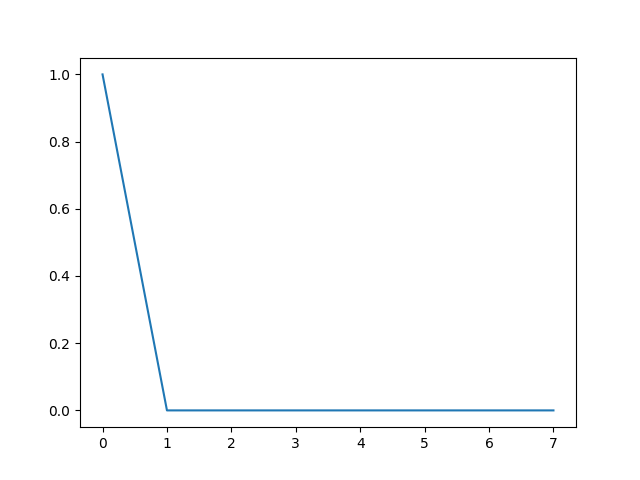
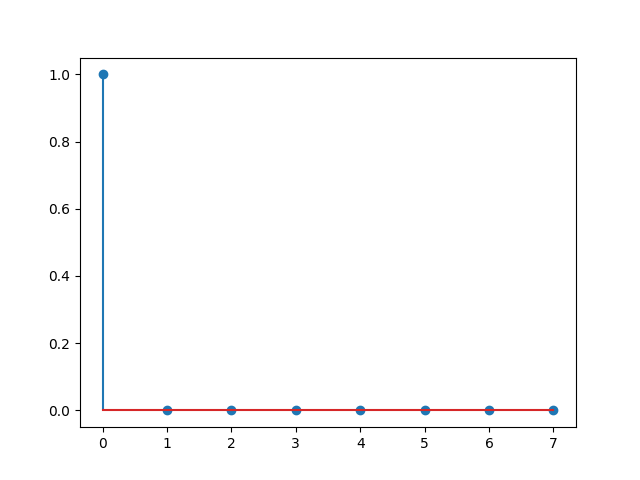
2章を変更

Changed region(s): [[0.1562, 0.7812, 0.875, 0.875], [0.1562, 0.125, 0.2188, 0.5625], [0.2188, 0.5625, 0.25, 0.7812]]

diff --git a/yyamamoto/chapter02/q03.py b/yyamamoto/chapter02/q03.py
@@ -1,30 +1,30 @@
-import math
-import cmath
-import matplotlib.pyplot as plt
 import numpy as np
+import matplotlib.pyplot as plt
 
 def dft(x):
     N = len(x)
-    X = [0] * N
+    X = np.zeros(N, dtype=complex)
+    n = np.arange(N)
     for k in range(N):
-        for n in range(N):
-            X[k] += x[n] * cmath.exp(-1j*2*math.pi*k*n/N)
+        X[k] = np.sum(x[n] * np.exp(-1j*2*np.pi*k*n/N))
     return X
 
 def idft(X):
     N = len(X)
-    x = [0] * N
+    x = np.zeros(N, dtype=complex)
+    k = np.arange(N)
     for n in range(N):
-        for k in range(N):
-            x[n] += X[k] * cmath.exp(1j*2*math.pi*k*n/N) / N
+       x[n] = np.sum(X[k] * np.exp(1j*2*np.pi*k*n/N)) / N
     return x
 
-impulse = [1, 0, 0, 0, 0, 0, 0, 0]
+
+# ここからq02
+impulse = np.array([1, 0, 0, 0, 0, 0, 0, 0])
 dft_value = dft(impulse)
 
 # ここからq03
 idft_value = idft(dft_value)
 t = np.arange(0, 8, 1)
 fig = plt.figure()
-plt.plot(idft_value)
+plt.stem(idft_value)
 fig.savefig('q03_graph')

diff --git a/yyamamoto/chapter02/q04.py b/yyamamoto/chapter02/q04.py
@@ -1,27 +1,24 @@
-import math
-import cmath
-import numpy as np
 import matplotlib.pyplot as plt
+import numpy as np
 
 def dft(x):
     N = len(x)
-    X = [0] * N
+    X = np.zeros(N, dtype=complex)
+    n = np.arange(N)
     for k in range(N):
-        for n in range(N):
-            X[k] += x[n] * cmath.exp(-1j*2*math.pi*k*n/N)
+        X[k] = np.sum(x[n] * np.exp(-1j*2*np.pi*k*n/N))
     return X
 
 def idft(X):
     N = len(X)
-    x = [0] * N
+    x = np.zeros(N, dtype=complex)
+    k = np.arange(N)
     for n in range(N):
-        for k in range(N):
-            x[n] += X[k] * cmath.exp(1j*2*math.pi*k*n/N) / N
+       x[n] = np.sum(X[k] * np.exp(1j*2*np.pi*k*n/N)) / N
     return x
 
 
-# ここからq02
-impulse = [1, 0, 0, 0, 0, 0, 0, 0]
+impulse = np.array([1, 0, 0, 0, 0, 0, 0, 0])
 dft_value = dft(impulse)
 
 A = 20 * np.log10(np.abs(dft_value))

diff --git a/yyamamoto/chapter02/q02.py b/yyamamoto/chapter02/q02.py
@@ -1,23 +1,22 @@
-import math
-import cmath
+import numpy as np
 
 def dft(x):
     N = len(x)
-    X = [0] * N
+    X = np.zeros(N, dtype=complex)
+    n = np.arange(N)
     for k in range(N):
-        for n in range(N):
-            X[k] += x[n] * cmath.exp(-1j*2*math.pi*k*n/N)
+        X[k] = np.sum(x[n] * np.exp(-1j*2*np.pi*k*n/N))
     return X
 
 def idft(X):
     N = len(X)
-    x = [0] * N
+    x = np.zeros(N, dtype=complex)
+    k = np.arange(N)
     for n in range(N):
-        for k in range(N):
-            x[n] += X[k] * cmath.exp(1j*2*math.pi*k*n/N) / N
+       x[n] = np.sum(X[k] * np.exp(1j*2*np.pi*k*n/N)) / N
     return x
 
 
 # ここからq02
-impulse = [1, 0, 0, 0, 0, 0, 0, 0]
+impulse = np.array([1, 0, 0, 0, 0, 0, 0, 0])
 print(dft(impulse))

diff --git a/yyamamoto/chapter02/q05.py b/yyamamoto/chapter02/q05.py
@@ -1,25 +1,23 @@
 import numpy as np
-import math
-import cmath
 
 def dft(x):
     N = len(x)
-    X = [0] * N
+    X = np.zeros(N, dtype=complex)
+    n = np.arange(N)
     for k in range(N):
-        for n in range(N):
-            X[k] += x[n] * cmath.exp(-1j*2*math.pi*k*n/N)
+        X[k] = np.sum(x[n] * np.exp(-1j*2*np.pi*k*n/N))
     return X
 
 def idft(X):
     N = len(X)
-    x = [0] * N
+    x = np.zeros(N, dtype=complex)
+    k = np.arange(N)
     for n in range(N):
-        for k in range(N):
-            x[n] += X[k] * cmath.exp(1j*2*math.pi*k*n/N) / N
+       x[n] = np.sum(X[k] * np.exp(1j*2*np.pi*k*n/N)) / N
     return x
 
 
-impulse = [1, 0, 0, 0, 0, 0, 0, 0]
+impulse = np.array([1, 0, 0, 0, 0, 0, 0, 0])
 print(dft(impulse))
 
 

diff --git a/yyamamoto/chapter02/q01.py b/yyamamoto/chapter02/q01.py
@@ -1,17 +1,17 @@
-import math
+import numpy as np
 
 def dft(x):
     N = len(x)
-    X = [0] * N
+    X = np.zeros(N, dtype=complex)
+    n = np.arange(N)
     for k in range(N):
-        for n in range(N):
-            X[k] += x[n] * math.exp(-1j*2*math.pi*k*n/N)
+        X[k] = np.sum(x[n] * np.exp(-1j*2*np.pi*k*n/N))
     return X
 
 def idft(X):
     N = len(X)
-    x = [0] * N
+    x = np.zeros(N, dtype=complex)
+    k = np.arange(N)
     for n in range(N):
-        for k in range(N):
-            x[n] += X[k] * math.exp(1j*2*math.pi*k*n/N) / N
+       x[n] = np.sum(X[k] * np.exp(1j*2*np.pi*k*n/N)) / N
     return x

diff --git a/yyamamoto/chapter02/q06.py b/yyamamoto/chapter02/q06.py
@@ -14,16 +14,19 @@ x = A * np.sin(2*np.pi*f*t) # 正弦波の値
 dft_value = np.fft.fft(x)
 A = 20 * np.log10(np.abs(dft_value))
 P = np.rad2deg(np.angle(dft_value))
+for i in range(len(A)):
+    if A[i] < 0:
+        P[i] = 0
 
 freq = fs * np.arange(len(A)) / len(A)
 # グラフの描画
 fig = plt.figure()
 fig.add_subplot(1,2,1)
-plt.plot(freq, A)
+plt.stem(freq, A)
 plt.title('Amplitude spectrum')
 
 fig.add_subplot(1,2,2)
-plt.plot(freq, P)
+plt.stem(freq, P)
 plt.title('Phase Spectrum')
 fig.savefig('q06_graph')
 
